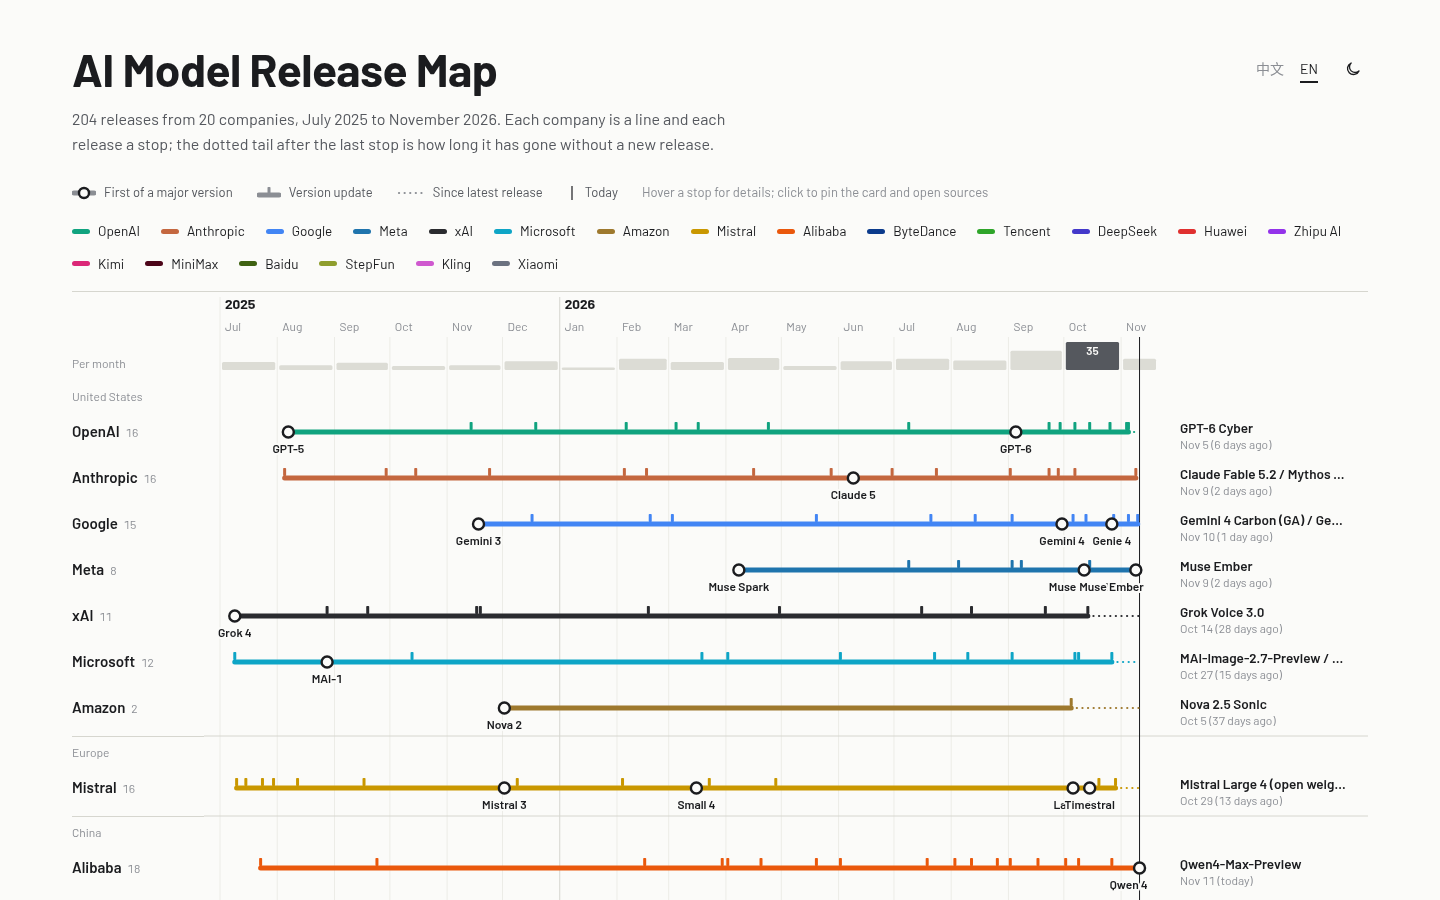
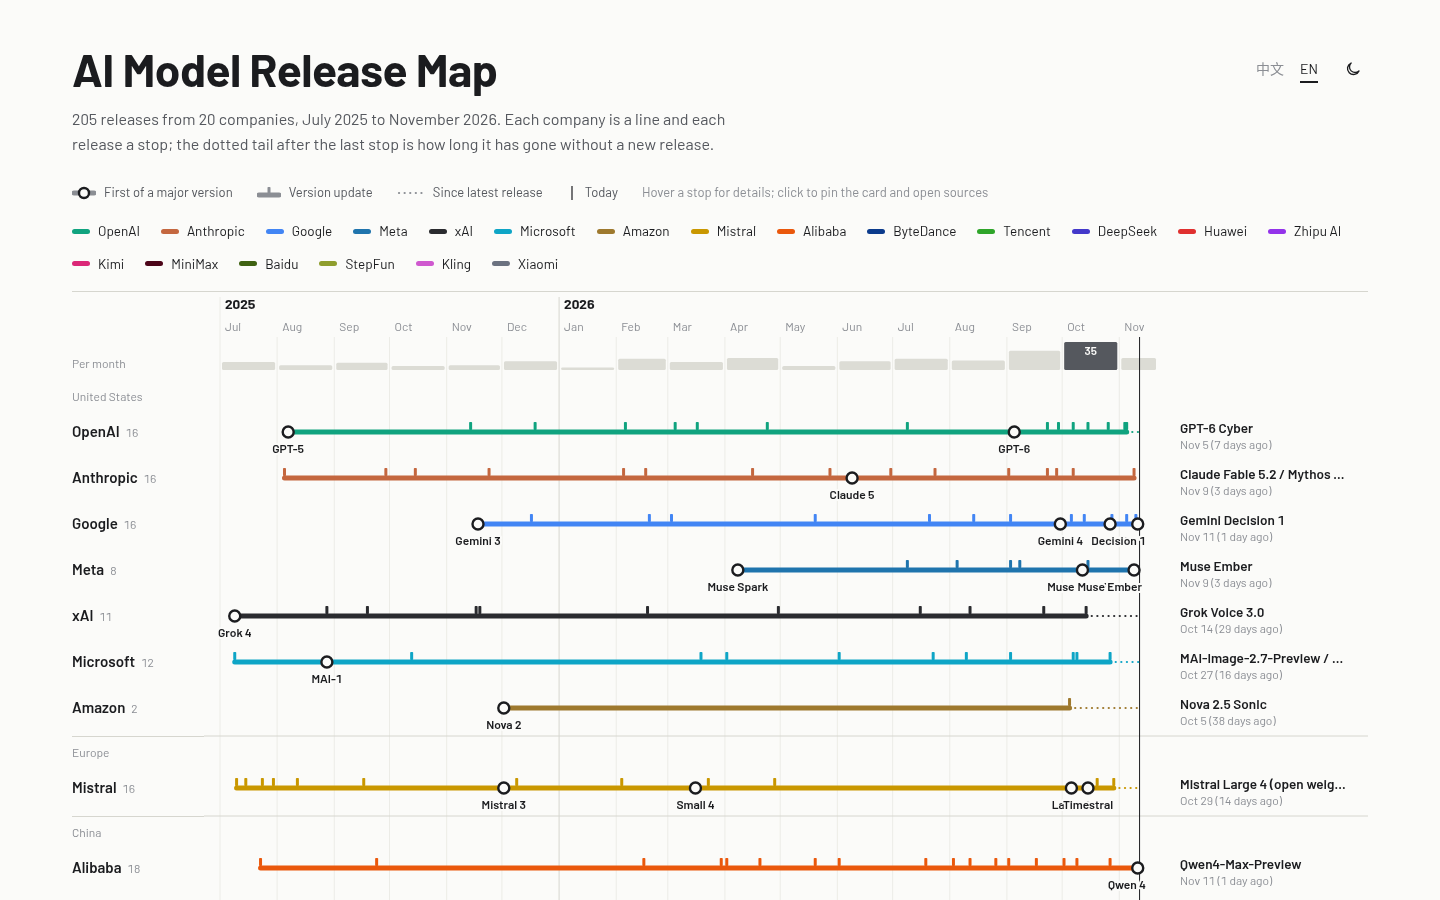
Add Google Gemini Decision 1 (2026-11-11 official)

diff --git a/index.html b/index.html
@@ -224,6 +224,7 @@ const DATA=[
 {company:"Google",model:"Gemini Omni 1.2 Flash",date:"2026-11-05",source:"https://blog.google/innovation-and-ai/technology/developers-tools/introducing-gemini-omni-1-2-flash/"},
 {company:"Google",model:"Nano Banana 2.1",date:"2026-10-06",source:"https://ai.google.dev/gemini-api/docs/changelog"},
 {company:"Google",model:"Gemini 4 Carbon (GA) / Gemini Robotics 2.5",date:"2026-11-10",source:"https://blog.google/innovation-and-ai/models-and-research/gemini-models/gemini-4-carbon-now-available/"},
+{company:"Google",model:"Gemini Decision 1",date:"2026-11-11",source:"https://blog.google/innovation-and-ai/technology/developers-tools/gemini-decisions-api/"},
 {company:"Meta",model:"Muse Spark",date:"2026-04-08",source:"https://about.fb.com/news/2026/04/introducing-muse-spark-meta-superintelligence-labs/"},
 {company:"Meta",model:"Muse Spark 1.1",date:"2026-07-09",source:"https://ai.meta.com/blog/introducing-muse-spark-meta-model-api/"},
 {company:"Meta",model:"Muse Spark 1.2",date:"2026-08-05",source:MT},
@@ -390,7 +391,7 @@ const LINES={"OpenAI":["#10a37f","#129673","us"],"Anthropic":["#c4673f","#c46b4b
 "MiniMax":["#4c0519","#fda4af","cn"],"百度":["#3f6212","#d9f99d","cn"],"阶跃星辰":["#8f9e2e","#b5c447","cn"],"可灵":["#cf59cf","#e58ae5","cn"],"小米":["#6b7280","#9ca3af","cn"]};
 const ORDER=Object.keys(LINES);
 // 大版本首发：画成换乘站并直接标注。规则是"该系列新整数版本号的第一次发布"，按需增删。
-const MAJOR={"GPT-5":"GPT-5","GPT-6 Astra":"GPT-6","Claude Mythos 5 / Fable 5":"Claude 5","Gemini 3.0 Pro":"Gemini 3","Gemini 4 Argon":"Gemini 4","Genie 4":"Genie 4","ERNIE 5.5 Flash Base":"文心 5.5","Muse Spark":"Muse Spark","Muse Wonder / Muse Wonder Full":"Muse Wonder","Muse Ember":"Muse Ember","Seed 2.0":"Seed 2.0","Hy3 preview":"Hy3","Hy4 preview":"Hy4","DeepSeek-V4 Pro / Flash Preview":"V4","openPangu-2.0-Flash":"openPangu 2.0","GLM-5":"GLM-5","Kimi K2":"K2","Kimi K3":"K3","Grok 4 / Grok 4 Heavy":"Grok 4","MAI-1-preview / MAI-Voice-1":"MAI-1","Nova 2 Lite / Pro / Omni / Sonic":"Nova 2","Mistral Large 3 / Ministral 3":"Mistral 3","Mistral Small 4":"Small 4","Mistral Large 4 (preview)":"Large 4","Timestral":"Timestral","MiniMax-M2":"M2","MiniMax-M3":"M3","文心 5.0 Preview":"文心 5","Step 3":"Step 3","Step 5 Preview":"Step 5","Kling 3.0 / 3.0 Omni":"Kling 3","Kling 4.0 / 4.0 Flash（抢先体验）":"Kling 4","MiMo-V2-Flash":"MiMo-V2","Hy-Nomas":"Hy-Nomas","Hy-SimulMT":"Hy-SimulMT","Qwen4-Max-Preview":"Qwen 4"};
+const MAJOR={"GPT-5":"GPT-5","GPT-6 Astra":"GPT-6","Claude Mythos 5 / Fable 5":"Claude 5","Gemini 3.0 Pro":"Gemini 3","Gemini 4 Argon":"Gemini 4","Genie 4":"Genie 4","ERNIE 5.5 Flash Base":"文心 5.5","Muse Spark":"Muse Spark","Muse Wonder / Muse Wonder Full":"Muse Wonder","Muse Ember":"Muse Ember","Seed 2.0":"Seed 2.0","Hy3 preview":"Hy3","Hy4 preview":"Hy4","DeepSeek-V4 Pro / Flash Preview":"V4","openPangu-2.0-Flash":"openPangu 2.0","GLM-5":"GLM-5","Kimi K2":"K2","Kimi K3":"K3","Grok 4 / Grok 4 Heavy":"Grok 4","MAI-1-preview / MAI-Voice-1":"MAI-1","Nova 2 Lite / Pro / Omni / Sonic":"Nova 2","Mistral Large 3 / Ministral 3":"Mistral 3","Mistral Small 4":"Small 4","Mistral Large 4 (preview)":"Large 4","Timestral":"Timestral","MiniMax-M2":"M2","MiniMax-M3":"M3","文心 5.0 Preview":"文心 5","Step 3":"Step 3","Step 5 Preview":"Step 5","Kling 3.0 / 3.0 Omni":"Kling 3","Kling 4.0 / 4.0 Flash（抢先体验）":"Kling 4","MiMo-V2-Flash":"MiMo-V2","Hy-Nomas":"Hy-Nomas","Hy-SimulMT":"Hy-SimulMT","Qwen4-Max-Preview":"Qwen 4","Gemini Decision 1":"Decision 1"};
 const OFFICIAL=["x.ai","microsoft.ai","azure.microsoft.com","aboutamazon.com","aws.amazon.com","mistral.ai","docs.mistral.ai","minimax.io","platform.minimaxi.com","home.baidu.com","ernie.baidu.com","stepfun.com","ir.kuaishou.com","kling.ai","mimo.mi.com","openai.com","anthropic.com","blog.google","about.fb.com","ai.meta.com","research.meta.ai","commandline.microsoft.com","qwenlm.github.io","help.aliyun.com","seed.bytedance.com","tencent.com","deepseek.com","hiascend.com","huawei.com","moonshotai.github.io","kimi.com"];
 const NAMES={zh:{},en:{"百度":"Baidu","阶跃星辰":"StepFun","可灵":"Kling","小米":"Xiaomi","阿里巴巴":"Alibaba","字节跳动":"ByteDance","腾讯":"Tencent","华为":"Huawei","智谱":"Zhipu AI"}};
 const EN_M=["Jan","Feb","Mar","Apr","May","Jun","Jul","Aug","Sep","Oct","Nov","Dec"];
@@ -401,7 +402,7 @@ zh:{title:"AI 模型发布线路图",
  latestH:"各公司最新一站",groups:{us:"美国",eu:"欧洲",cn:"中国"},monthly:"每月发布",mon:m=>`${m}月`,d:(m,d)=>`${m}月${d}日`,full:(y,m,d)=>`${y}年${m}月${d}日`,
  ago:n=>n<=0?"今天":`${n} 天前`,sub:(dt,ago)=>`${dt}（${ago}）`,count:n=>`${n} 次`,off:"官方",third:"第三方",
  tbl:n=>`以表格查看全部 ${n} 次发布`,cols:["日期","公司","模型","来源"],filt:"显示或隐藏线路",themeL:"切换深浅色",
- foot:'数据来源：<a href="https://modeltimeline.com/zh/" target="_blank" rel="noopener">modeltimeline.com/zh</a>、<a href="https://www.datalearner.com/whats-new" target="_blank" rel="noopener">DataLearner</a>、各公司官方公告（OpenAI、Anthropic、Google、Meta、阿里云、DeepSeek、Kimi、字节跳动 Seed、腾讯、华为、xAI、Microsoft AI、Amazon、Mistral、MiniMax、百度、阶跃星辰、快手可灵、小米 MiMo 等）及新闻报道。仅收录在来源中实际查到的条目，同一天发布的多个型号合并为一站。整理日期：2026-11-11。'},
+ foot:'数据来源：<a href="https://modeltimeline.com/zh/" target="_blank" rel="noopener">modeltimeline.com/zh</a>、<a href="https://www.datalearner.com/whats-new" target="_blank" rel="noopener">DataLearner</a>、各公司官方公告（OpenAI、Anthropic、Google、Meta、阿里云、DeepSeek、Kimi、字节跳动 Seed、腾讯、华为、xAI、Microsoft AI、Amazon、Mistral、MiniMax、百度、阶跃星辰、快手可灵、小米 MiMo 等）及新闻报道。仅收录在来源中实际查到的条目，同一天发布的多个型号合并为一站。整理日期：2026-11-12。'},
 en:{title:"AI Model Release Map",
  lede:(n,c)=>`${n} releases from ${c} companies, July 2025 to November 2026. Each company is a line and each release a stop; the dotted tail after the last stop is how long it has gone without a new release.`,
  major:"First of a major version",minor:"Version update",multi:"Several on one day",gap:"Since latest release",today:"Today",hint:"Hover a stop for details; click to pin the card and open sources",
